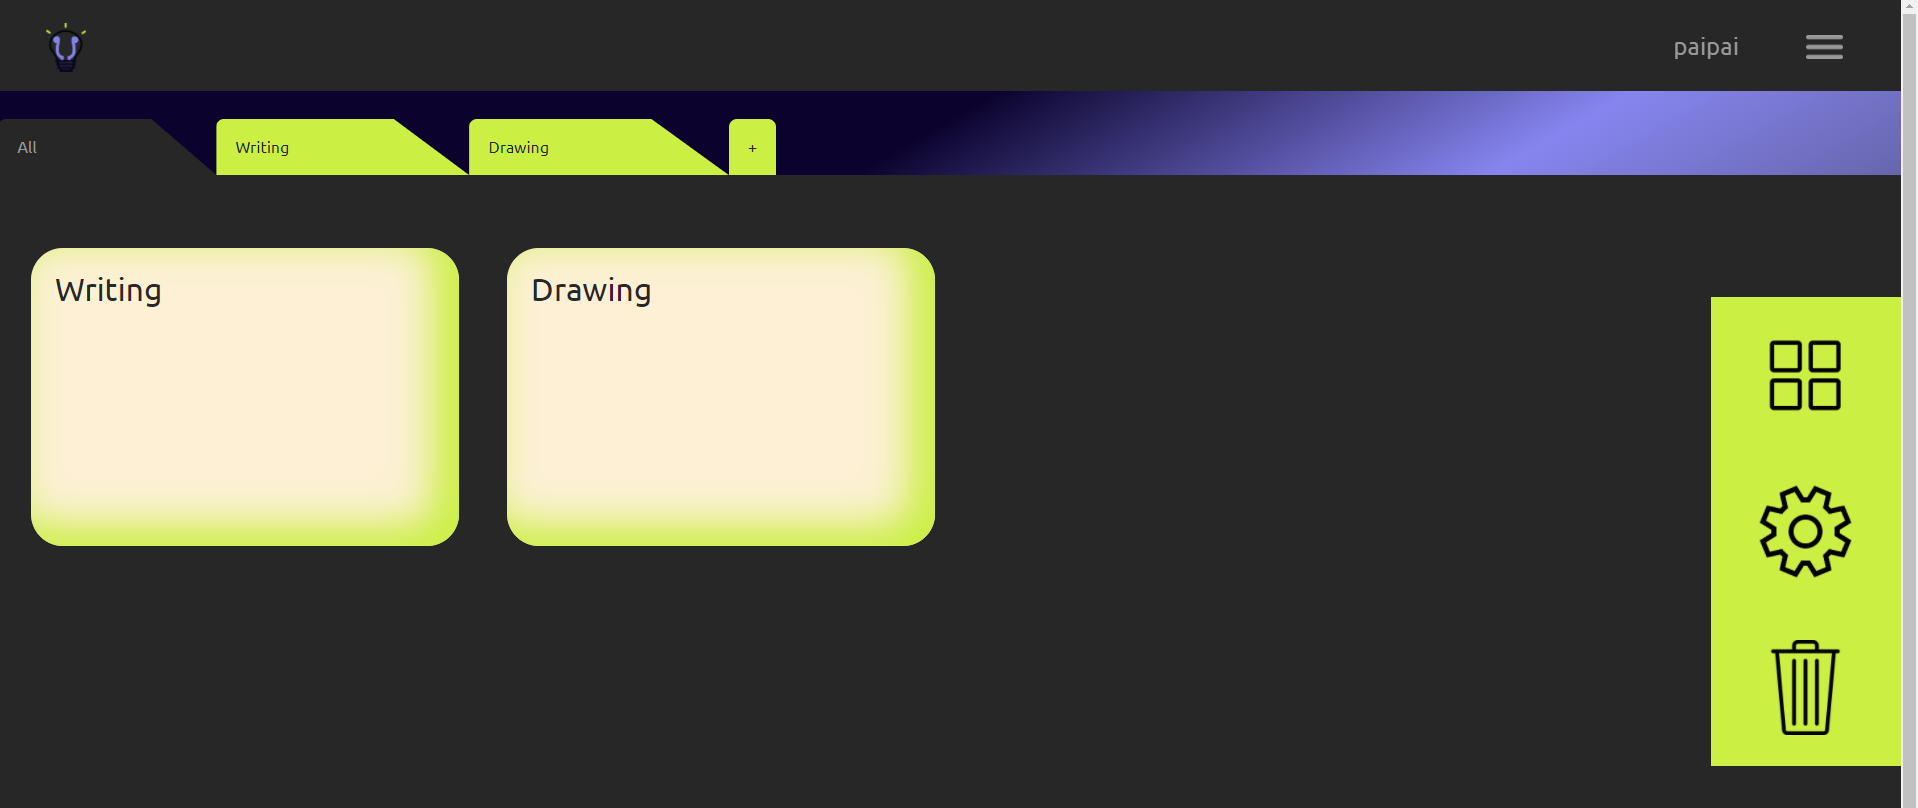
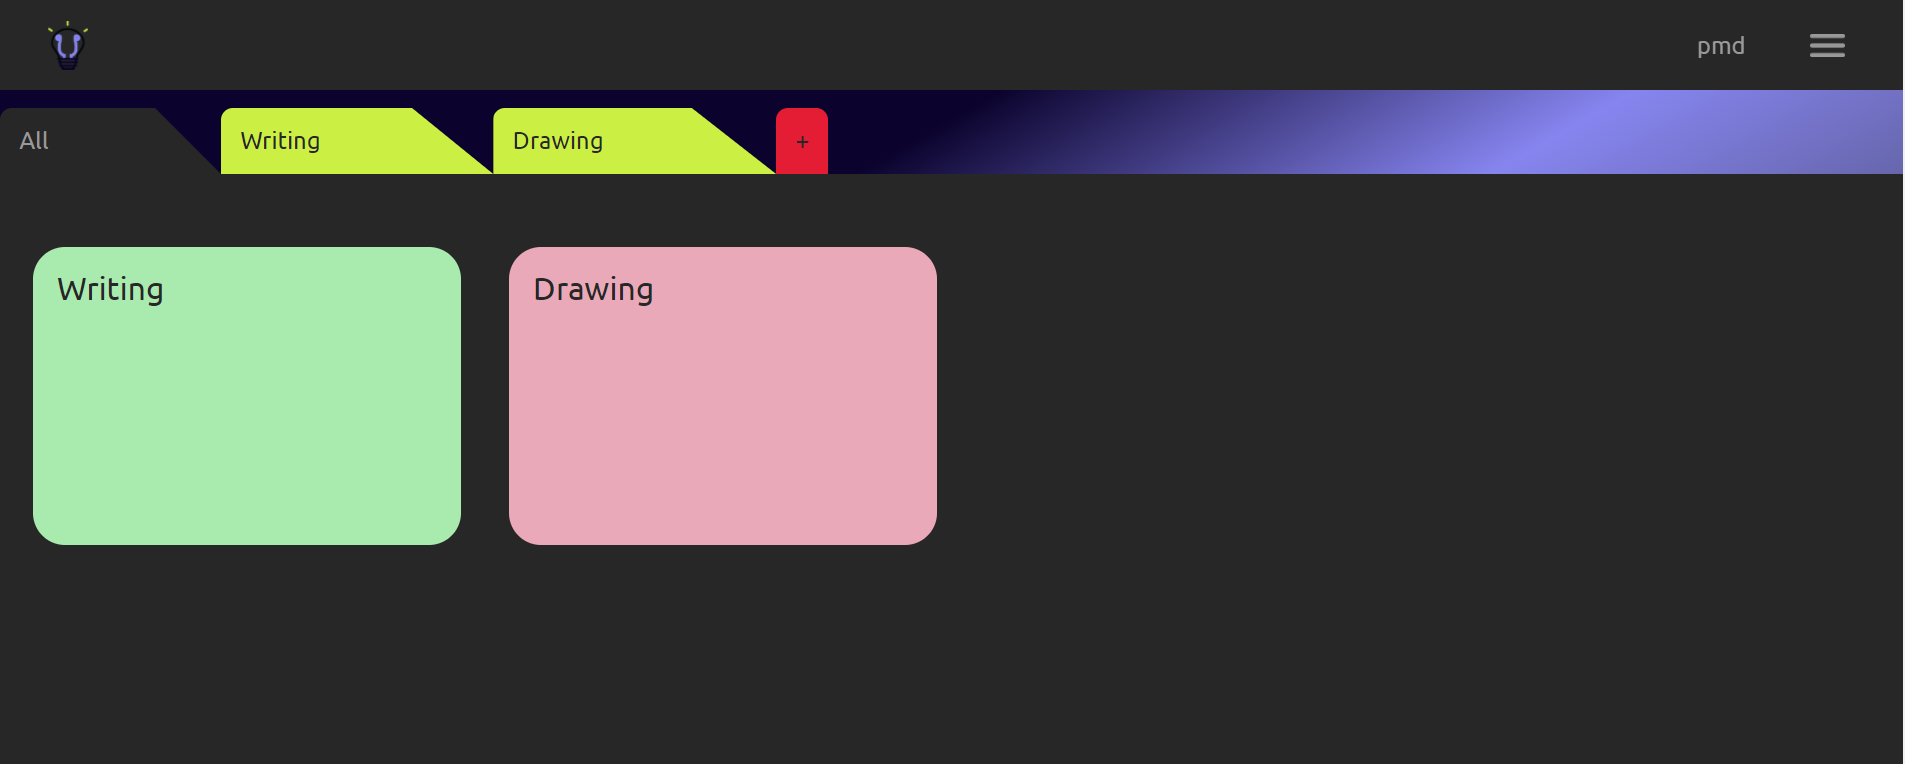
first final commit

Changed region(s): [[0.0, 0.301, 0.4955, 0.7225], [0.0, 0.0, 1.0, 1.0], [0.0, 0.1806, 0.031, 0.2107]]

diff --git a/js/app-header.js b/js/app-header.js
@@ -81,8 +81,10 @@ wpickr.on('cancel', instance =>{
 });
 
 $("#new-workspace-form").submit(function(e){
+    e.preventDefault();
     var values = $("form").serialize();
     var name = $("form").find('input[name="workspace-name"]').val();
+    var color = $("form").find('input[name="workspace-color"]').val();
 
     $.ajax({
     type: "POST",
@@ -90,7 +92,21 @@ $("#new-workspace-form").submit(function(e){
     data: values,
     success: function(data) { 
         if(data == 0){
-            window.location.reload(true);
+
+            //hide form
+            $("#add-new-workspace-container").fadeOut();
+
+            //add new tab
+            var newTab = '<a href="workspace.php?name='+ name + '" class="workspace-tabs ubuntu-font">' + name + '</a>';
+            $("#plus-tab").before(newTab);
+
+            //if on all page, add new square
+            if(window.location.pathname == "/app.php"){
+                $("#no-workspaces").remove();
+
+                var newSquare = '<a href="workspace.php?name=' + name + '" class="workspace-icon ubuntu-font" style="background-color:' + color + ';">' + name +'</a>';
+                $("#workspace-icons-container").append(newSquare);
+            }
         }
         else{   //error occured
             alert("Workspace name already in use.");

diff --git a/js/app.js b/js/app.js
@@ -20,12 +20,12 @@ $(document).on("dragstart", ".draggable", function(){
 
         if(e.originalEvent.wheelDelta > 0 || e.originalEvent.detail < 0){   //up scroll = decrease size
             if(w > 100){
-                img.width(w - 1);
+                img.width(w - 2);
             }
         }
         else{//down scroll = increase size
             if(w > 10){
-                img.width(w + 1);
+                img.width(w + 2);
             }
         }
     });
@@ -173,6 +173,7 @@ $(".workspace-input-submit").click(function(){
 });
 
 $("#edit-name-form").submit(function(e){
+    e.preventDefault();
     var values = $("form").serialize();
     var newName = $("#workspace-name-input").val();
 
@@ -416,7 +417,7 @@ $("textarea").keydown(function(){
 }); 
 /////////end of document wrap
 
-//Gets data from url (where "name" is ?name=X)
+//Gets data from url (where "name" (arg) is ?arg=X)
 function getURLdata(name){
     var results = new RegExp('[\?&]' + name + '=([^&#]*)').exec(window.location.href);
     if (results==null){

diff --git a/style/app.css b/style/app.css
@@ -169,10 +169,8 @@ body{
     margin: 2em;
 }
 .workspace img:hover{
-    border: solid #8685ef;
-    border-radius: 1em;
     cursor: pointer;
-    transform: skew(-3deg);
+    opacity: 0.5;
 }
 .workspace textarea{
     resize: none;

diff --git a/app-tabs.php b/app-tabs.php
@@ -9,49 +9,79 @@
     //Get workspaces belonging to user 
     $workspaces = $dao->getWorkspaces($user->id); 
 
-    //make these workspaces php pages
+    //make workspaces php pages
     //pretty much adding all html to string and writing it to file
-    //BUT only do this if a change has occured 
-    if(!isset($_SESSION["change"]) || $_SESSION["change"] == "true"){
+
+    //happens upon initial loading of app page
+    if(!isset($_SESSION["change"])){
         if($workspaces != false){
             foreach($workspaces as $space){
-                $filepath = $space["name"].".php";
-                $file = fopen("bin/".$filepath, "w") or die ("Unable to access workspace.");
+               createWorkspaceFile($space, $dao);
+            }
 
-                //add elements for each workspace into page
-                $elements = $dao->getElements($space["id"]); 
-                $space["elements"] = $elements;
+            $_SESSION["change"] = false;
+        }
+    }
 
-                $st = "<?php \$_SESSION['currspace'] = '".$space["name"]."';?>"; //session variable to know which workspace we're in
-
-                //divs for workspace
-                //this is only time I use inline styline, so shhhhhh (actually 1/2 times but)
-                $st .= '<div class="workspace-container">';
-                $st .= '<div class="workspace-border-container" style="background-color:#'.$space["color"].';">';
-                $st .= '<div class="workspace" id="'.$space["name"].'" style="background-color:#'.$space["color"].';">';
-
-                foreach($elements as $key => $el){
-                    if($el != false){
-                        foreach($el as $item){
-                            if($key == "images"){
-                                $st .= '<div><img class="draggable" data-id="'.$item["id"].'" src="'.$item["location"].'"></div>'."\n";
-                            }
-                            else if($key == "notes"){
-                                $st .= '<textarea class="ubuntu-font draggable" data-id="'.$item["id"].'" style="background-color:'.$item["color"].';">'.htmlspecialchars($item["content"]).'</textarea>'."\n";
-                            }
-                        }
-                    }
+    //if new workspace(s) were added, create those pages
+    if(isset($_SESSION["newSpaces"])){
+        foreach($_SESSION["newSpaces"] as $newSpace){
+            foreach($workspaces as $space){
+                if($space["name"] == $newSpace){
+                    createWorkspaceFile($space, $dao);
                 }
+            }
+        }
 
-                $st .= "</div></div></div>";
+        unset($_SESSION["newSpaces"]);
+    }
 
-                fwrite($file, $st);
+    //if workspace color change happened or an image was added, we should redo just that page
+    if(isset($_SESSION["reloadMe"])){
+        foreach($workspaces as $space){
+            if($space["name"] == $_SESSION["reloadMe"]){
+                createWorkspaceFile($space, $dao);
+            }
+        }
+        unset($_SESSION["reloadMe"]);
+    }
 
-                $_SESSION["change"] = false;
+function createWorkspaceFile($space, $dao)
+{
+
+    $filepath = $space["name"].".php";
+    $file = fopen("bin/".$filepath, "w") or die ("Unable to access workspace.");
+
+    //add elements for each workspace into page
+    $elements = $dao->getElements($space["id"]); 
+    $space["elements"] = $elements;
+
+    $st = "<?php \$_SESSION['currspace'] = '".$space["name"]."';?>"; //session variable to know which workspace we're in when we're on that page
+
+    //divs for workspace
+    //this is only time I use inline styline, so shhhhhh (actually 1/2 times but...)
+    $st .= '<div class="workspace-container">';
+    $st .= '<div class="workspace-border-container" style="background-color:#'.$space["color"].';">';
+    $st .= '<div class="workspace" id="'.$space["name"].'" style="background-color:#'.$space["color"].';">';
+
+    foreach($elements as $key => $el){
+        if($el != false){
+            foreach($el as $item){
+                if($key == "images"){
+                    $st .= '<div><img class="draggable" data-id="'.$item["id"].'" src="'.$item["location"].'"></div>'."\n";
+                }
+                else if($key == "notes"){
+                    $st .= '<textarea class="ubuntu-font draggable" data-id="'.$item["id"].'" style="background-color:'.$item["color"].';">'.htmlspecialchars($item["content"]).'</textarea>'."\n";
+                }
             }
         }
     }
 
+    $st .= "</div></div></div>";
+
+    fwrite($file, $st);
+
+}
 ?>
 
 <div id="app-container">

diff --git a/bin/Drawing.php b/bin/Drawing.php
@@ -1,4 +1,1 @@
-<a href="https://static01.nyt.com/images/2020/04/03/science/03TB-KINGFISHER1/03TB-KINGFISHER1-mediumSquareAt3X.jpg"><img class="" src="https://static01.nyt.com/images/2020/04/03/science/03TB-KINGFISHER1/03TB-KINGFISHER1-mediumSquareAt3X.jpg"></a>
-<a href="https://www.sciencemag.org/sites/default/files/styles/article_main_large/public/images/ss-bird_honeycreeper.jpg?itok=VlVY6gUB"><img class="" src="https://www.sciencemag.org/sites/default/files/styles/article_main_large/public/images/ss-bird_honeycreeper.jpg?itok=VlVY6gUB"></a>
-<a href="https://thumbs-prod.si-cdn.com/3n9RUFERlyCPoyPq4Vpg2MWmgw4=/fit-in/1600x0/https://public-media.si-cdn.com/filer/46/c7/46c7da28-e266-497b-9bc3-d25e291ee962/istock-1144653112.jpg"><img class="" src="https://thumbs-prod.si-cdn.com/3n9RUFERlyCPoyPq4Vpg2MWmgw4=/fit-in/1600x0/https://public-media.si-cdn.com/filer/46/c7/46c7da28-e266-497b-9bc3-d25e291ee962/istock-1144653112.jpg"></a>
-<textarea class="ubuntu-font"></textarea>
+<?php $_SESSION['currspace'] = 'Drawing';?><div class="workspace-container"><div class="workspace-border-container" style="background-color:#EAA9B9;"><div class="workspace" id="Drawing" style="background-color:#EAA9B9;"></div></div></div>

diff --git a/contact.php b/contact.php
@@ -5,14 +5,7 @@
 
 <div id="contact-container">
     <div id="contact-box">
-        <h1 id="contact-title" class="ubuntu-font login-box-title">Questions? Comments?</h1>
-        <form id="contact-form" action="#" method="POST">
-            <input label="text" class="ubuntu-font contact-form-input" name="contact-fname" placeholder="First Name" required>
-            <input label="text" class="ubuntu-font contact-form-input" name="contact-lname" placeholder="Last Name" required>
-            <input label="text" class="ubuntu-font contact-form-input" name="contact-email" placeholder="Email" required>
-            <textarea class="ubuntu-font contact-form-input" name="contact-message" placeholder="Message" required></textarea>
-            <input type="submit" class="ubuntu-font user-form-submit" value="Send">
-        </form> 
+        <h1 id="contact-title" class="ubuntu-font login-box-title">Find me on <a href="https://twitter.com/Paisleymdavis" target="_blank">Twitter</a> or <a href="mailto:garbagemeadow@gmail.com" target="_blank">email me</a>.</h1>
     </div>
 </div>
 

diff --git a/bin/Writing.php b/bin/Writing.php
@@ -1,6 +1,1 @@
-<a href="bin/images/tree-branches2.jpg"><img class="" src="bin/images/tree-branches2.jpg"></a>
-<a href="https://img.webmd.com/dtmcms/live/webmd/consumer_assets/site_images/article_thumbnails/slideshows/people_foods_cats_can_eat_slideshow/1800x1200_people_foods_cats_can_eat_slideshow.jpg"><img class="" src="https://img.webmd.com/dtmcms/live/webmd/consumer_assets/site_images/article_thumbnails/slideshows/people_foods_cats_can_eat_slideshow/1800x1200_people_foods_cats_can_eat_slideshow.jpg"></a>
-<a href="bin/images/tree-tunnel-road.jpg"><img class="" src="bin/images/tree-tunnel-road.jpg"></a>
-<textarea class="ubuntu-font"></textarea>
-<textarea class="ubuntu-font"></textarea>
-<textarea class="ubuntu-font"></textarea>
+<?php $_SESSION['currspace'] = 'Writing';?><div class="workspace-container"><div class="workspace-border-container" style="background-color:#A9EAAF;"><div class="workspace" id="Writing" style="background-color:#A9EAAF;"></div></div></div>

diff --git a/app.php b/app.php
@@ -14,13 +14,6 @@
                     else{
                         echo '<p id="no-workspaces" class="ubuntu-font">No workspaces created yet.</p>';
                     }
-                    //^implement later for showing preview elements in workspace squares >>v
-                    // <a href="workspace.php" class="workspace-icon ubuntu-font">
-                    //     <img class="workspace-icon-image" src="images/ex1.jpg">
-                    //     <img class="workspace-icon-image" src="images/ex2.png">
-                    //     <img class="workspace-icon-image" src="images/ex3.jpg">
-                    //     Workspace1
-                    // </a>////
                 ?>
             </div>
 <?php 

diff --git a/bin/newMarket.php b/bin/newMarket.php
@@ -1,0 +1,2 @@
+<?php $_SESSION['currspace'] = 'newMarket';?><div class="workspace-container"><div class="workspace-border-container" style="background-color:#66D49C;"><div class="workspace" id="newMarket" style="background-color:#66D49C;"><div><img class="draggable" data-id="1811" src="bin/images/penguin.png"></div>
+</div></div></div>

diff --git a/deleteWorkspace.php b/deleteWorkspace.php
@@ -12,7 +12,11 @@
     //get user id from saved user session variable
     $user = unserialize($_SESSION["user"]);
 
+    //delete db entry
     $dao->deleteWorkspace($_SESSION["currspace"], $user->id);
+
+    //delete php file
+    unlink("bin/".$_SESSION["currspace"].".php");
 
     $_SESSION["change"] = true;
 

diff --git a/addWorkspace.php b/addWorkspace.php
@@ -21,7 +21,12 @@
         exit();
     }
     else{
+        if(!isset($_SESSION["newSpaces"])){
+            $_SESSION["newSpaces"] = array();
+        }
+        $_SESSION["newSpaces"][] = $_POST["workspace-name"];
         $_SESSION["change"] = true;
+
         echo 0;
         exit();
     }

diff --git a/bin/moonsnStars.php b/bin/moonsnStars.php
@@ -1,0 +1,1 @@
+<?php $_SESSION['currspace'] = 'moonsnStars';?><div class="workspace-container"><div class="workspace-border-container" style="background-color:#FFFCAC;"><div class="workspace" id="moonsnStars" style="background-color:#FFFCAC;"></div></div></div>
